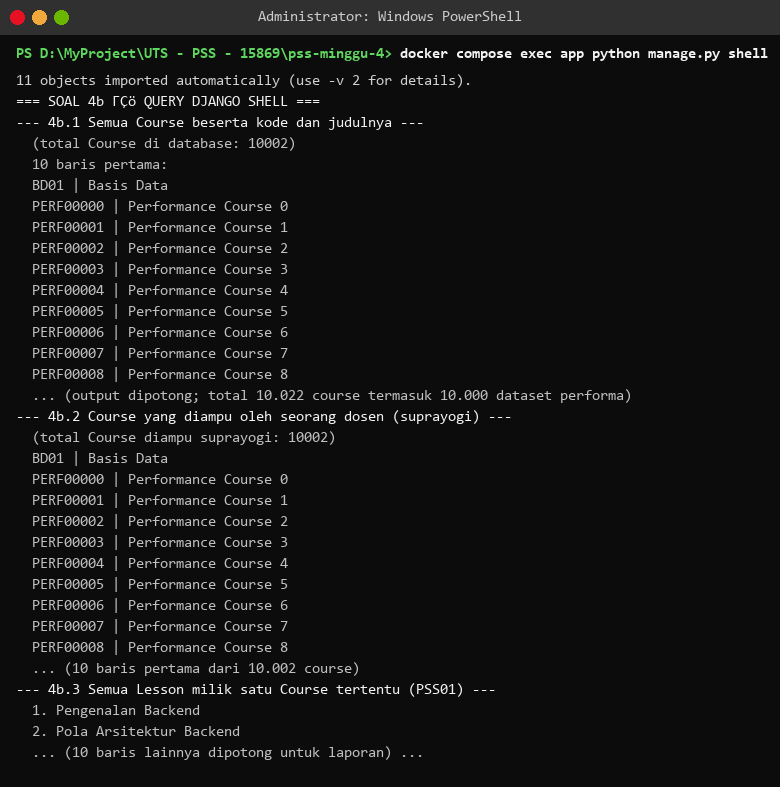
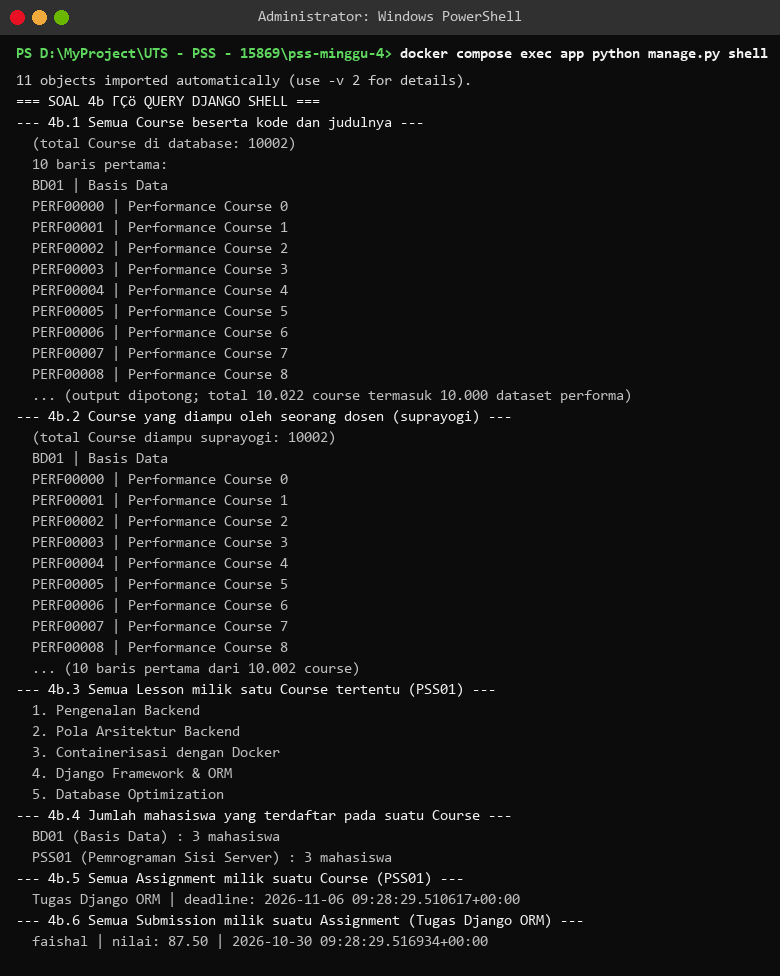
fix: regenerate screenshots showing all 6 ORM queries in 4b

Changed region(s): [[0.0, 0.0, 1.0, 0.9759], [0.4923, 0.4879, 0.8, 0.5489], [0.5231, 0.7014, 0.5846, 0.7319]]

diff --git a/scripts_uts/generate_images.py b/scripts_uts/generate_images.py
@@ -169,26 +169,26 @@ def terminal_shot(txt_name, png_name, command, max_lines=34):
 
 SHOTS = [
     ("q3a_compose_ps.txt", "shot_3a_compose_ps.png",
-     "docker compose ps"),
+     "docker compose ps", 34),
     ("q4a_check_data.txt", "shot_4a_check_data.png",
-     "docker compose exec app python manage.py shell"),
+     "docker compose exec app python manage.py shell", 40),
     ("q4b_queries.txt", "shot_4b_queries.png",
-     "docker compose exec app python manage.py shell"),
+     "docker compose exec app python manage.py shell", 60),
     ("q5a_before.txt", "shot_5a_before.png",
-     "docker compose exec app python manage.py shell"),
+     "docker compose exec app python manage.py shell", 34),
     ("q5b_after.txt", "shot_5b_after.png",
-     "docker compose exec app python manage.py shell"),
+     "docker compose exec app python manage.py shell", 34),
     ("q5c_prefetch.txt", "shot_5c_prefetch.png",
-     "docker compose exec app python manage.py shell"),
+     "docker compose exec app python manage.py shell", 40),
     ("q5d_explain.txt", "shot_5d_explain.png",
-     "docker compose exec app python manage.py shell"),
+     "docker compose exec app python manage.py shell", 30),
     ("test_catalog.txt", "shot_test_catalog.png",
-     "docker compose exec app python manage.py test catalog"),
+     "docker compose exec app python manage.py test catalog", 30),
 ]
 
 
 if __name__ == "__main__":
     draw_architecture()
-    for txt, png, cmd in SHOTS:
-        terminal_shot(txt, png, cmd)
+    for txt, png, cmd, mx in SHOTS:
+        terminal_shot(txt, png, cmd, max_lines=mx)
     print("Done. Files in", OUT)
